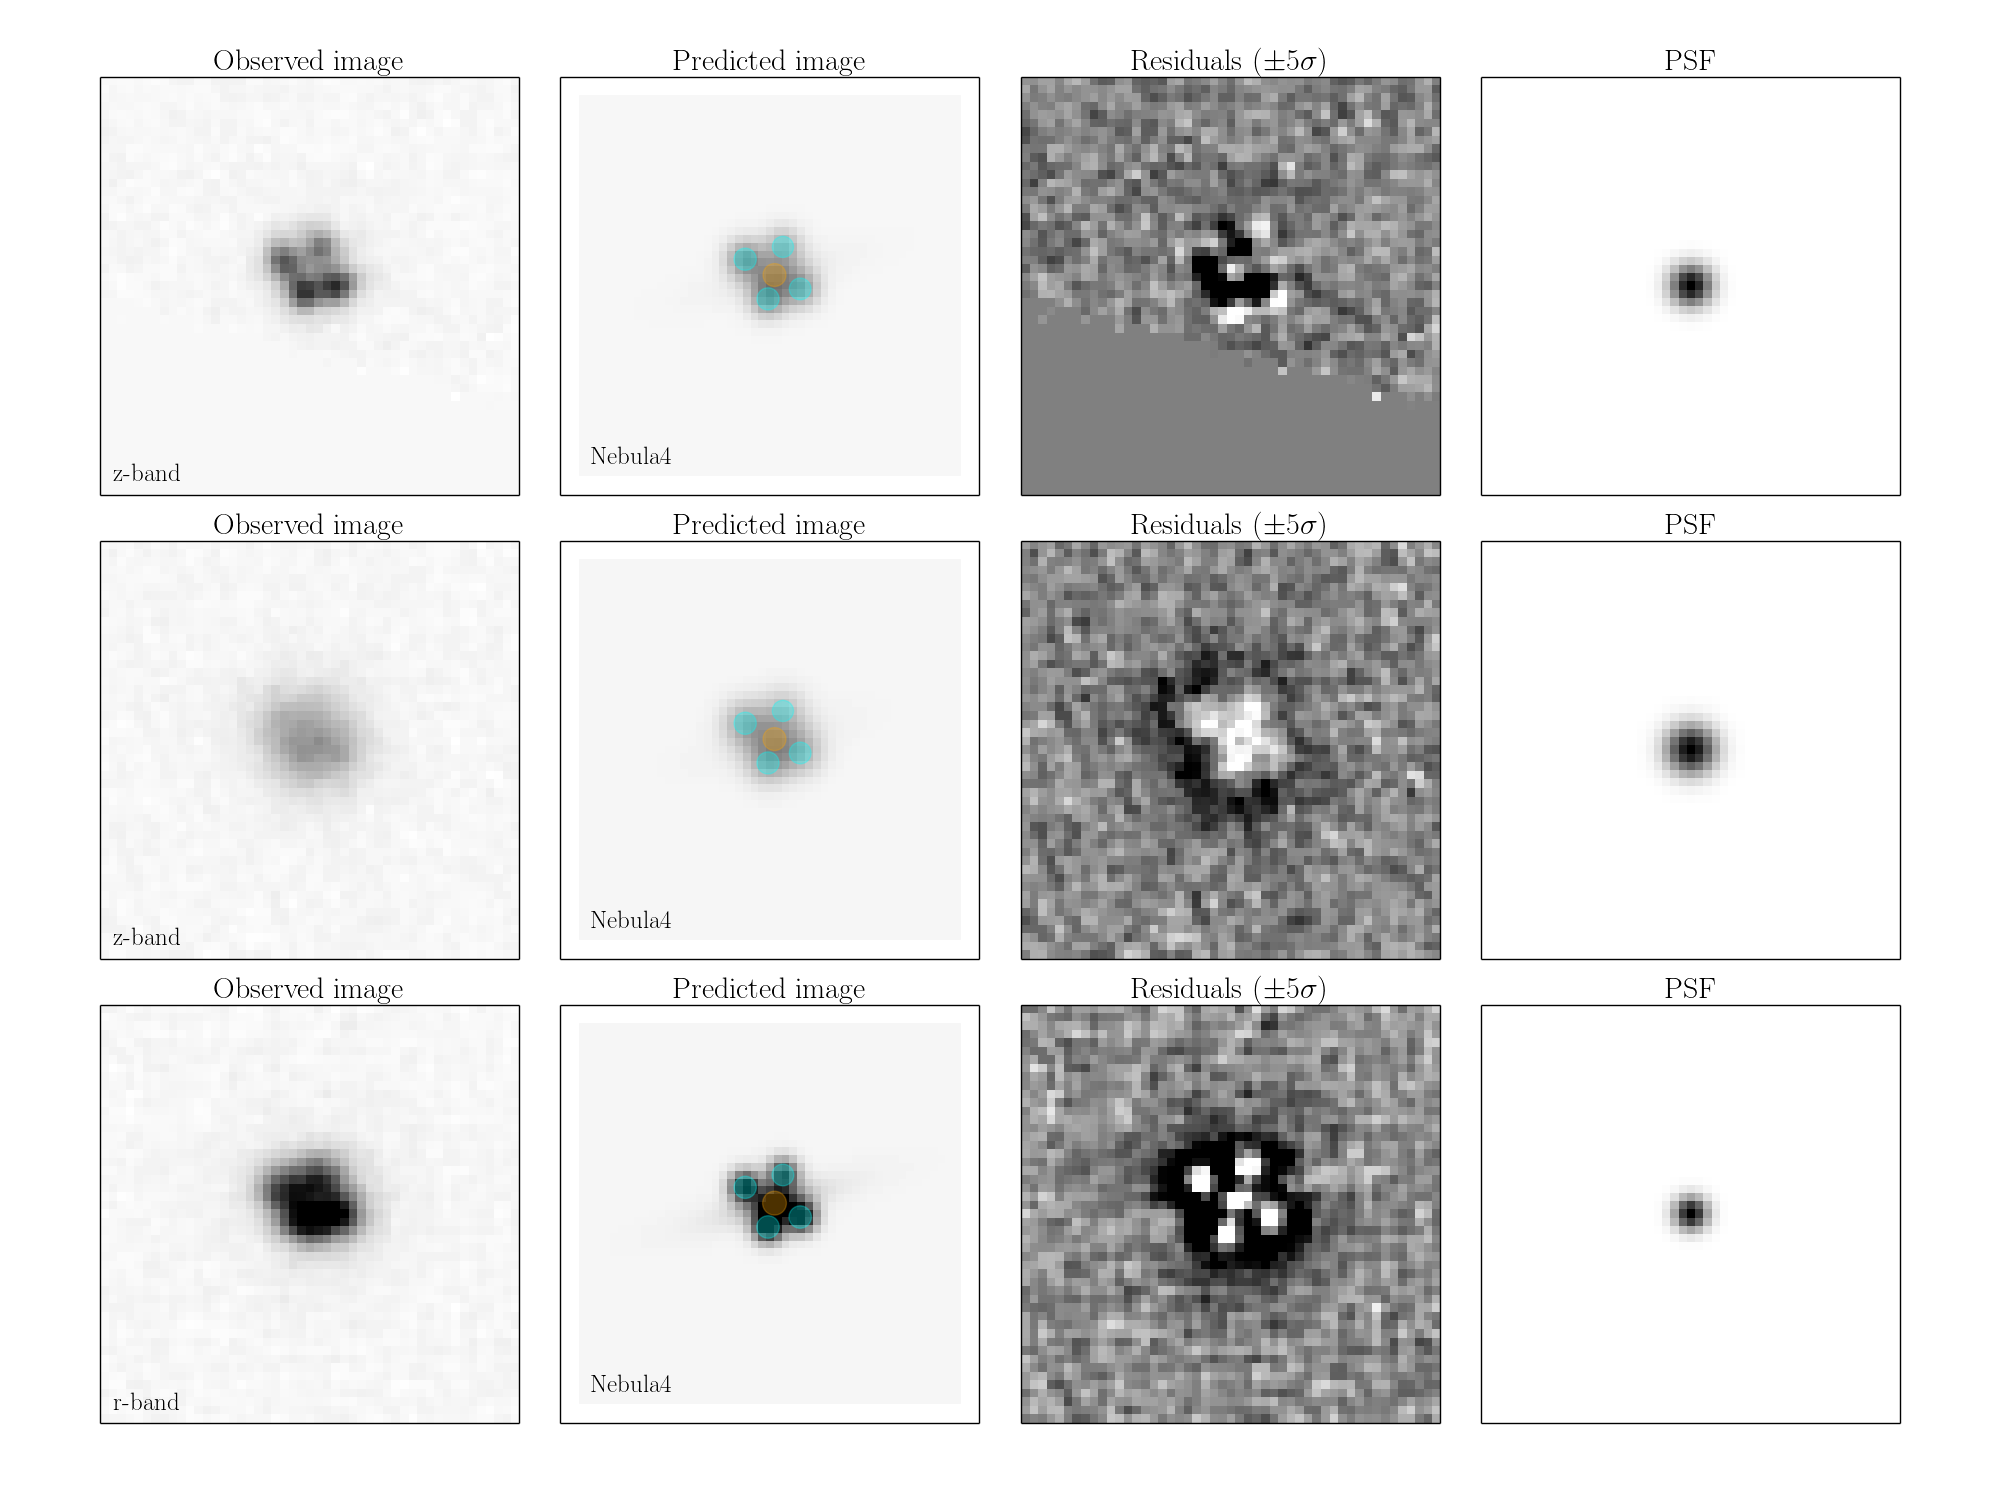
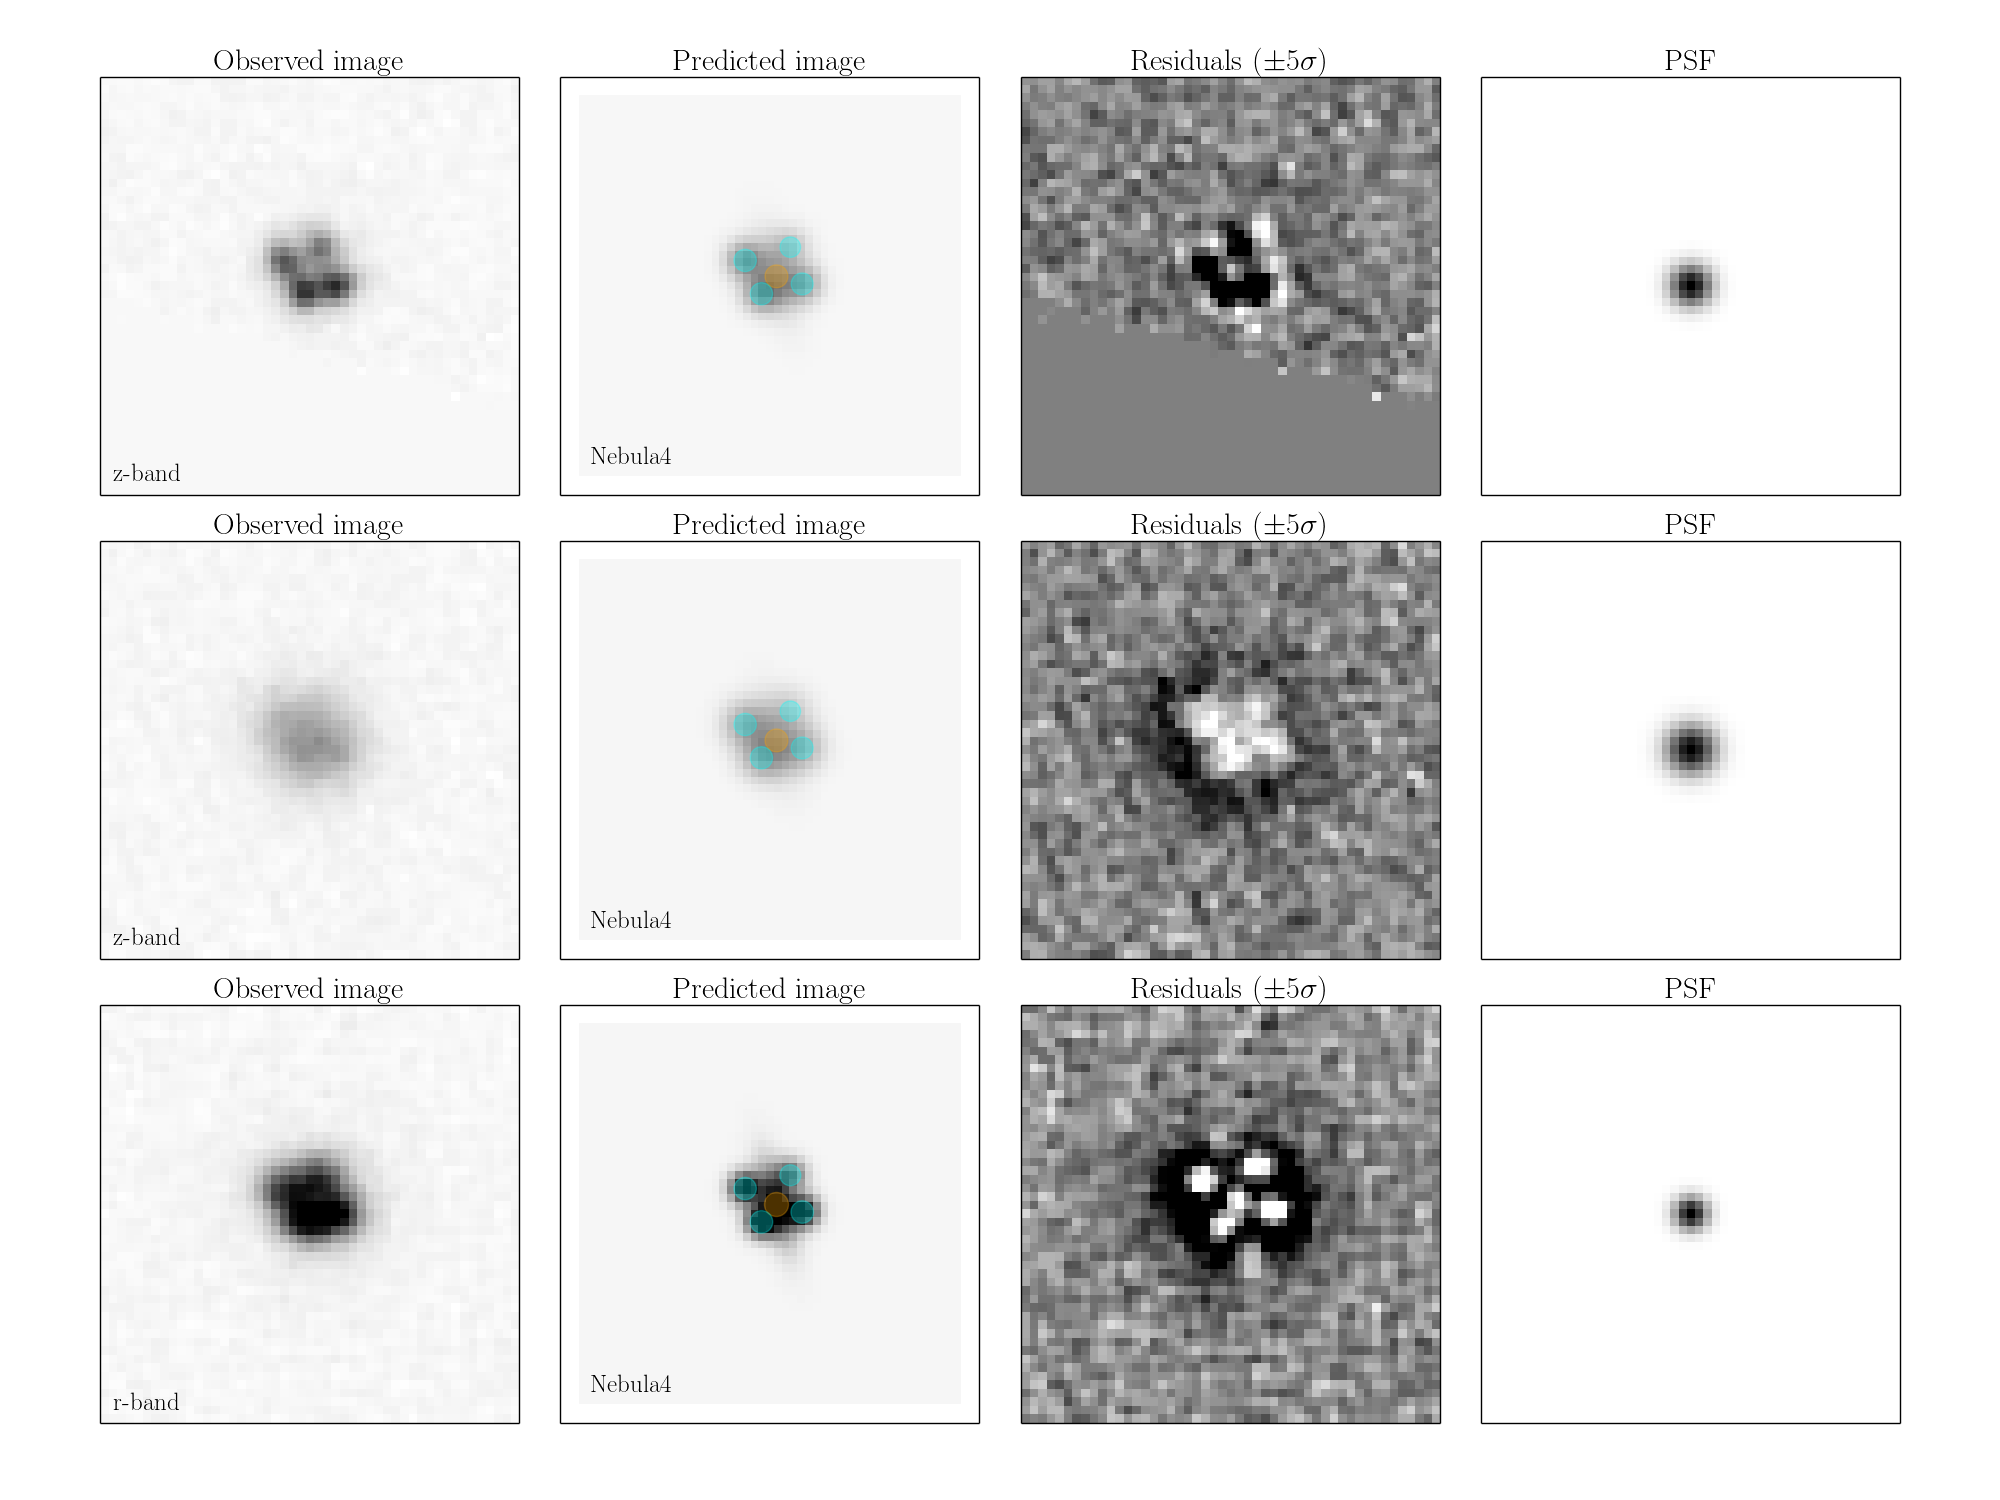
shear seems right, source too centered, still negative Reff from Nebula to be fixed URGENTLY, see #46

diff --git a/lenstractor/model.py b/lenstractor/model.py
@@ -318,18 +318,22 @@ class Model():
                 # Reposition galaxy, reset axis ratio and p.a.:
                 galpx, galpy, weight = 0.0, 0.0, 0.0
                 pippo0 = stars[0].getBrightness()[0]
-                for star in stars:
+#                for star in stars:
+                istar = 1
+                while istar<len(stars):
+                    star = stars[istar]
                     pippo1 = 10.0**(-0.4*star.getBrightness()[0]+0.4*pippo0)
                     galpx += star.getPosition().ra/pippo1
                     galpy += star.getPosition().dec/pippo1
                     weight += 1./pippo1
+                    istar += 1
                 galpx, galpy = galpx/weight, galpy/weight
                 xd.ra, xd.dec = galpx, galpy
                 
                 # LT tries to reabsorb defects in the Nebula fit by playing
                 # around with very elongated or localised galaxy components.
                 # Reset these to ensure lens galaxy is roundish.
-                galshape.ab = 0.8  # MAGIC reset axis ratio to be reasonably round...
+                galshape.ab = 1.1  # MAGIC reset axis ratio to be reasonably round...
                 galshape.phi = 0.0 # MAGIC reset orientation to avoid mimicking the QSO residuals
                 galshape.re = tE   # MAGIC reset eff.radius, in arcseconds, practically the extent of the img separation        
                 
@@ -374,7 +378,7 @@ class Model():
                 xd.ra, xd.dec = galpx, galpy
                 galshape.ab = 0.8 # magic reset to axis ratio
                 galshape.phi = 0.0   
-                # galshape.re = resetre
+                galshape.re = resetre
                 
                 # We need the centroid position *relative to the galaxy*, so we need to re-do this when resetting
                 if self.vb:
@@ -534,7 +538,7 @@ class Model():
 
     def solve_for_initial_lens_position(self,stars,xd,tE,gamma1,gamma2):
         
-        learnrate = 0.01
+        learnrate = 0.1
         d11 = d12 = 0.0
         d21 = d22 = 0.0
         dchi2xd = dchi2yd = 0.0

diff --git a/lenstractor/driver.py b/lenstractor/driver.py
@@ -138,7 +138,7 @@ class LensTractor():
                 # PSF is already optimized, during Nebula run.
                 # Just do the lens part:
                 
-                self.settings['Nrounds'] = 20
+                self.settings['Nrounds'] = 2
                 self.settings['Nsteps_optimizing_catalog'] = 10000
                 self.settings['Nsteps_optimizing_PSFs'] = 0
                 self.optimize()

diff --git a/lenstractor/lens.py b/lenstractor/lens.py
@@ -43,7 +43,7 @@ class EinsteinRadius(tractor.ScalarParam):
 class ExternalShear(tractor.ParamList):
       def __init__(self, gamma, phi):
             super(ExternalShear, self).__init__(gamma, phi)
-            self.stepsizes = [0.01, 5.]
+            self.stepsizes = [0.005, 5.]
       def getName(self):
             return 'External shear'
       def getNamedParams(self):
